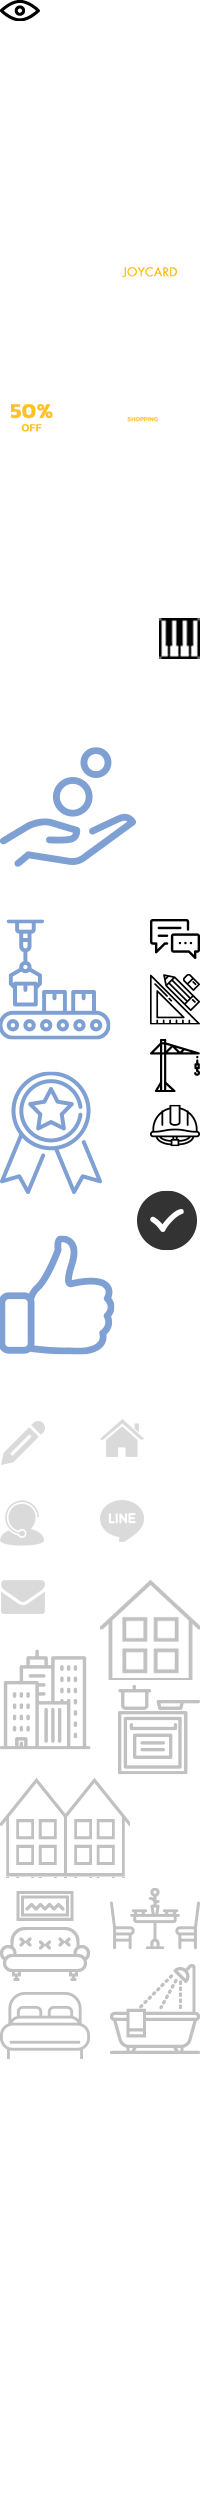
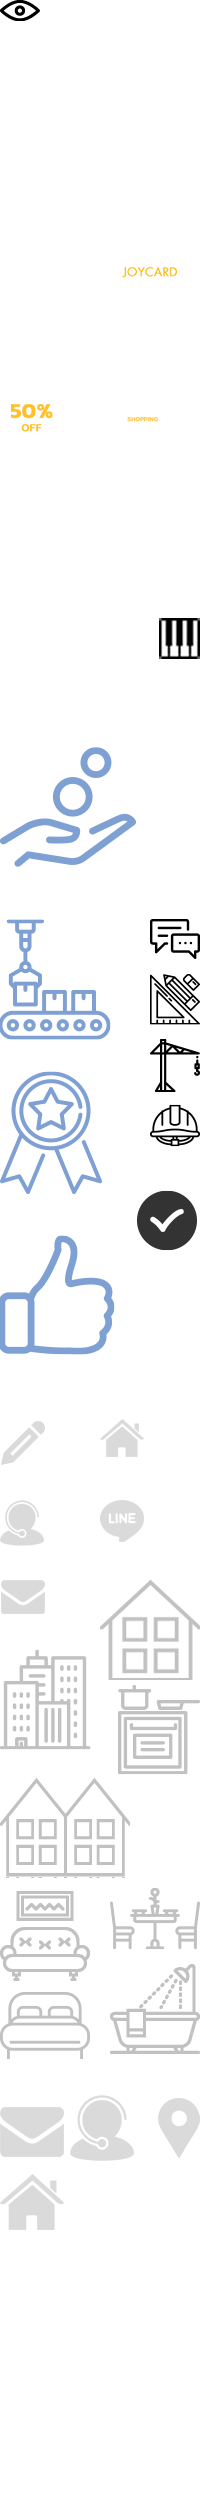
INDC-15

Changed region(s): [[0.0, 0.8424, 0.33, 0.9048], [0.36, 0.8424, 0.66, 0.8736], [0.78, 0.8112, 1.0, 0.8736]]

diff --git a/skin/frontend/indexliving-corporate/default/css/styles.css b/skin/frontend/indexliving-corporate/default/css/styles.css
@@ -11008,11 +11008,14 @@ div.paypal-logo span > img {
 .tab-left .tabsPage,
 .tab-left .tabs {float:left; width:25%; background:#F5F5F5; font-size:19px; }
 .tab-left .tabsPage li,
-.tab-left .tabs li {float:left; width:100%; border-bottom:solid 2px #E3E3E3;list-style-type: none;}
+.tab-left .tabs li {float:left; width:100%; border-bottom:solid 1px #E3E3E3;list-style-type: none;}
+.tab-left .tabs li:nth-child(1){
+  border-top:solid 1px #E3E3E3;
+}
 .tab-left .tabsPage li a,
-.tab-left .tabs li a {display:block; padding:10px 15px; line-height: 24px; }
+.tab-left .tabs li a {display:block; padding:10px 15px; line-height: 24px; color:#555; font-weight: 300; }
 .tab-left .tabsPage li a:hover,
-.tab-left .tabs li a:hover {text-decoration:none;}
+.tab-left .tabs li a:hover {text-decoration:none; color:#000;}
 .tab-left .tabsPage li.active,
 .tab-left .tabs li.active {background:#fff;position:relative;}
 .tab-left .tabsPage li.active:before,
@@ -11055,7 +11058,167 @@ div.paypal-logo span > img {
 .career_job .menuheaders.selected .thecontent ul{margin-bottom:20px;}
 .content_cms.career h2{color:#000;padding:10px 15px;background:#F7F7F7;margin-bottom:0;margin-top:10px;border-bottom:solid 1px #ececec;}
 
-/*history-company*/
+
+
+/* franchise-concept */
+.cms-franchise .tab-left .tab_container {
+  padding:0 0 0 20px;
+}
+.franchise-concept,
+.cms-page-view .std .franchise-concept p,
+.franchise-concept .ul-style1 li,
+.franchise-concept label{
+  font-size:16px;
+  color:#252525;
+  line-height: 26px;
+  font-family: 'Kanit';
+  font-weight:300;
+}
+.franchise-concept label {
+  font-weight: 500;
+}
+.franchise-concept h2 {
+  font-size:28px;
+  color:#000;
+  font-weight: bold;
+}
+.franchise-concept p strong{
+  font-weight:500;
+}
+.franchise-concept .col-2-image {
+  margin:30px 20px;
+  float: left;
+  width: 100%;
+  overflow: hidden;
+  clear: both;
+}
+.franchise-concept .col-2-image img {
+  float:left;
+  width:49.4%;
+}
+.franchise-concept .col-2-image img + img {
+  width:50.4%;
+  margin-left:0.2%;
+}
+.franchise-concept h4 {
+  font-size:24px;
+  font-weight: bold;
+  color:#FBB50D;
+  text-transform: uppercase;
+  font-family: 'Kanit';
+  margin:15px 0 10px;
+}
+.franchise-concept .box-gray {
+  padding:12px;
+  background:#fbfbfb;
+  float:left;
+  width:100%;
+}
+.franchise-concept .box-gray .box-image {
+  float:right;
+  width:40%;
+}
+.franchise-concept .box-gray .box-info {
+  float:left;
+  width:60%;
+  padding-right:18px;
+}
+.franchise-concept .box-gray .box-info label{
+  margin-bottom:5px;
+}
+.franchise-concept .box-white {
+  float:left;
+  width:100%;
+  padding:32px 0;
+  border-bottom:solid 1px #ebebeb;
+  margin-bottom:20px;
+}
+.franchise-concept .box-white .box-image {
+  float:left;
+  width:40%;
+}
+.franchise-concept .box-white .box-info {
+  float:left;
+  width:60%;
+  padding-left:18px;
+}
+.franchise-concept .box-gray1 {
+  background:#f5f5f5;
+  padding:10px;
+}
+.franchise-concept .box-gray1 strong{
+  font-weight: 500;
+}
+.franchise-concept a {
+  color:#fbb50d;
+}
+.franchise-concept .index-store {
+  float:left;
+  width:100%;
+}
+.franchise-concept .list-country >li {
+  float:left;
+  width:100%;
+  margin-bottom:15px;
+}
+.franchise-concept .list-country >li:nth-last-child(1) {
+  margin-bottom:0px;
+}
+.franchise-concept .list-country >li >label{
+  font-size:24px;
+}
+.cms-page-view .std .franchise-concept .list-country >li >p{
+  color:#9c9c9c
+}
+.franchise-concept .list-stores {
+  float:left;
+  width:100%;
+  clear: both;
+  overflow: hidden;
+  background:#f5f5f5;
+  padding:10px 18px;
+  margin:20px 0;
+}
+.franchise-concept .list-stores li {
+  float:left;
+  width:49%;
+  margin:8px 2% 8px 0;
+  background:#fff;
+}
+.franchise-concept .list-stores li:nth-child(2n){
+  margin-right:0px;
+}
+.franchise-concept .list-stores li .box-image {
+  float:left;
+  width:100%;
+}
+.franchise-concept .list-stores li .box-info {
+  float:left;
+  width:100%;
+  padding:8px 12px;
+}
+.franchise-concept .list-stores li .box-info label{
+  font-size:16px;
+  font-weight: 300;
+}
+.franchise-concept .list-stores li .box-info .store-name{
+  font-weight: bold;
+  font-size:18px;
+  line-height: 24px;
+  margin-bottom:0px;
+}
+.franchise-concept .list-stores li .box-info span{
+  display: block;
+  color:#9c9c9c;
+  font-size:16px;
+  font-weight: 500;
+}
+.franchise-concept .list-country li:nth-last-child(1) .list-stores {
+  margin-bottom: 0px;
+}
+
+
+  /*history-company*/
 #tabs_history{padding:0;float:left;clear:both;width:99%;margin-bottom:0;margin-top:10px;border:1px solid #F3F3F3;}
 ul.tabs_history{margin:0;padding:0;float:left;list-style:none;min-height:45px;width:100%;background:#F3F3F3;}
 ul.tabs_history li{float:left;padding:0;min-height:45px;line-height:45px;border-left:none;overflow:hidden;position:relative;}
@@ -12151,7 +12314,8 @@ ul.mp-details > li >a:before,
 .career-contacts li:before,
 .design-build-page .box1 ul li.li-icon:before,
 .design-build-page .box1 .list-type-design li:before,
-.design-build-page .box2 li:before{
+.design-build-page .box2 li:before,
+.cms-franchise .page-contact ul li span:before{
   background-image: url(../images/icon-corporate.png);
 }
 
@@ -12166,7 +12330,8 @@ ul.mp-details > li >a:before,
   .career-contacts li:before,
   .design-build-page .box1 ul li.li-icon:before,
   .design-build-page .box1 .list-type-design li:before,
-  .design-build-page .box2 li:before{
+  .design-build-page .box2 li:before,
+  .cms-franchise .page-contact ul li span:before{
     background-image: url(../images/icon-corporate2x.png);
     background-size: 100px 1000px;
   }
@@ -13125,10 +13290,30 @@ margin-bottom:15px;
 }
 #application-form .area{text-align: left;clear: both}
 #application-form .appli-form-block{
-  border: 1px solid rgb(227, 227, 227);
-  background: rgb(247, 247, 247);
+  border: 1px solid #e6e6e6;
+  background: #f6f6f6;
   border-radius: 3px;
   padding: 20px;
+  float:left;
+  width:100%;
+  clear: both;
+}
+#application-form .appli-form-list + .appli-form-list {
+  border-top:solid 1px #e6e6e6;
+  padding:20px 20px 0;
+  margin-top:20px;
+  width:calc(100% + 40px);
+  margin-left:-20px;
+  float:left;
+}
+#application-form .appli-form-list .field-textarea{
+  width:450px;
+  max-width:100%;
+}
+.tab_container #application-form p.note {
+  float:left ;
+  width:100%;
+  margin-bottom:20px;
 }
 #application-form .button{
   padding: 7px 10px;
@@ -13141,6 +13326,56 @@ margin-bottom:15px;
 #application-form p.note{
   color: red;
 }
+.cms-franchise .page-contact p,
+.cms-franchise .page-contact ul li{
+  font-size:16px;
+  color:#252525;
+  font-weight: 300;
+}
+.cms-franchise .page-contact ul {
+  float:left;
+  width:566px;
+  background:#f5f5f5;
+  padding:10px;
+}
+.cms-franchise .page-contact ul li {
+  border-top:solid 1px #ebebeb;
+  padding:18px 0px 18px 0px;
+  position: relative;
+}
+.cms-franchise .page-contact ul li span {
+  padding-left:50px;
+  display: block;
+}
+.cms-franchise .page-contact ul li:nth-child(1) {
+  border-top:none;
+}
+.cms-franchise .page-contact ul li span:before{
+  width:32px;
+  height:32px;
+  content:"";
+  position: absolute;
+  left:0px;
+  top:13px;
+  background-repeat: no-repeat;
+}
+.cms-franchise .page-contact ul li.email span:before {
+  background-position: 0 -1050px;
+}
+.cms-franchise .page-contact ul li.phone span:before {
+  background-position: -35px -1048px;
+}
+.cms-franchise .page-contact ul li.adrress span:before {
+  background-position: 0 -1085px;
+}
+.cms-franchise .page-contact ul li.map span:before {
+  background-position: -74px -1049px;
+}
+.cms-franchise .page-contact ul li.map img {
+  margin:15px auto 0 ;
+  max-width:100%;
+}
+
 #toolbar-pager{
   /*overflow: visible !important;*/
   /*float: none !important;*/
